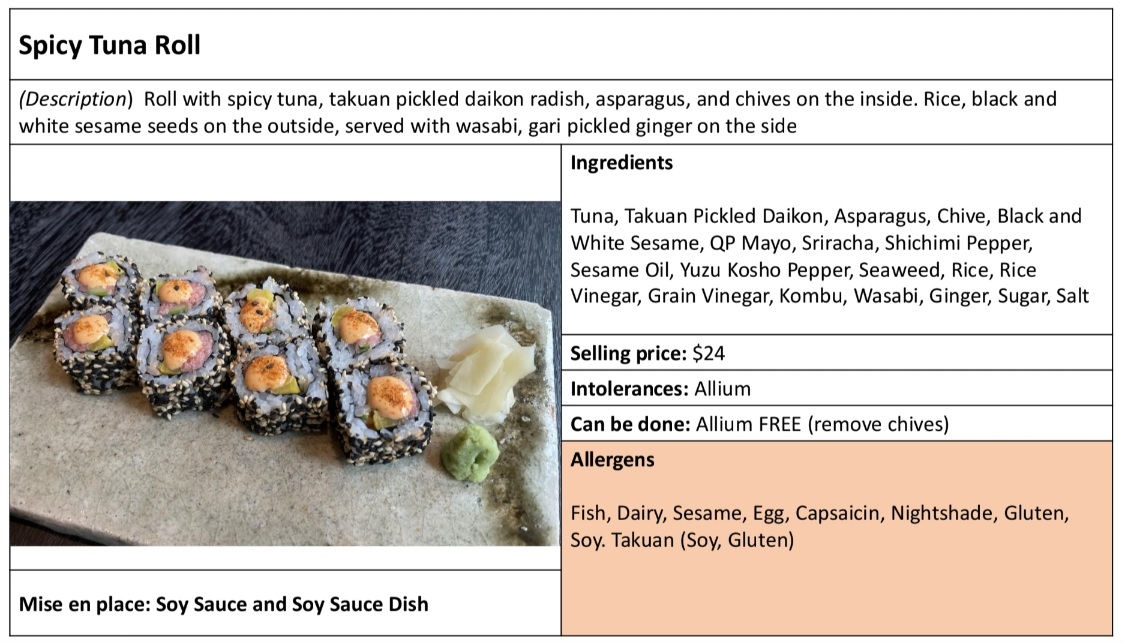
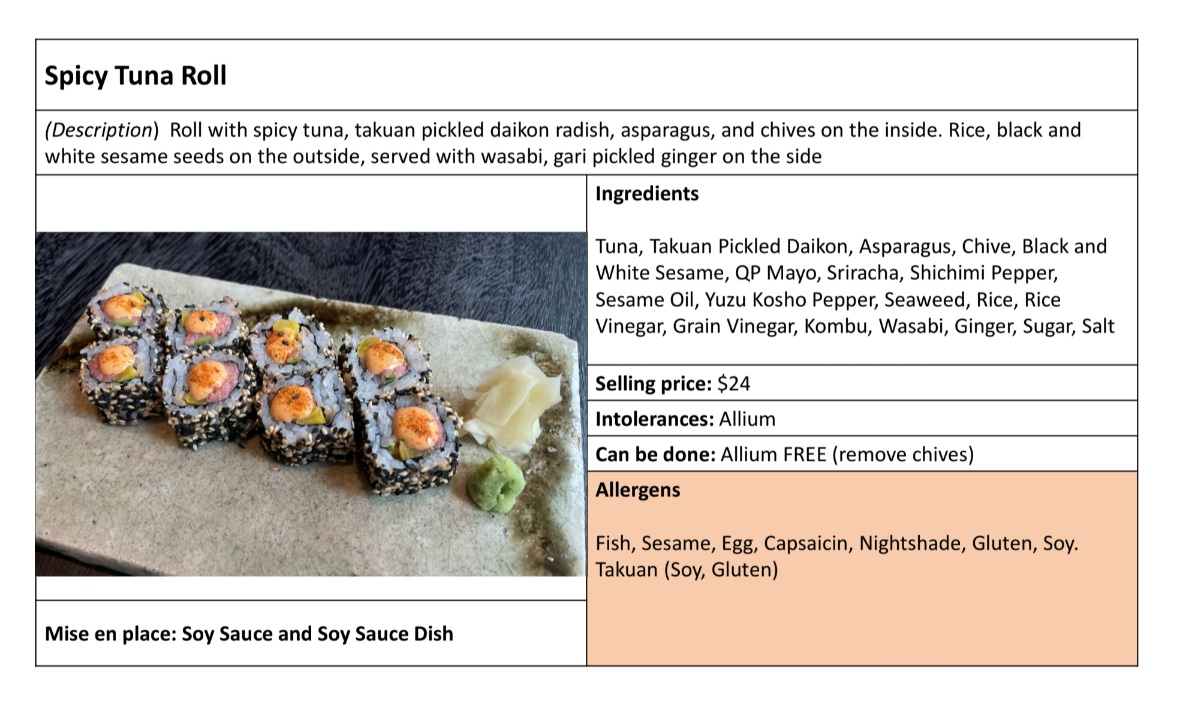
update pic: spicy tuna roll

diff --git a/app/manager/page.jsx b/app/manager/page.jsx
@@ -3044,7 +3044,7 @@ export default function ManagerDinnerPage() {
           <div className='modal-content'>
           
           <div>
-            <img src='spicy-tuna-roll.jpg' />
+            <img src={`spicy-tuna-roll.jpg?v={Date.now()}`} />
           </div>
           <div className='modal-text'>
                            

diff --git a/app/page.jsx b/app/page.jsx
@@ -3179,7 +3179,7 @@ appetizers, seasonal plates, and dessert.
           <div className='modal-content'>
           
           <div>
-            <img src='spicy-tuna-roll.jpg' />
+            <img src={`spicy-tuna-roll.jpg?v={Date.now()}`} />
           </div>
           <div className='modal-text'>
                            
